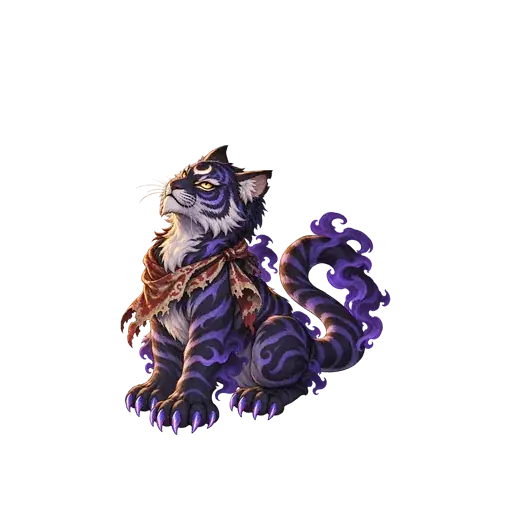
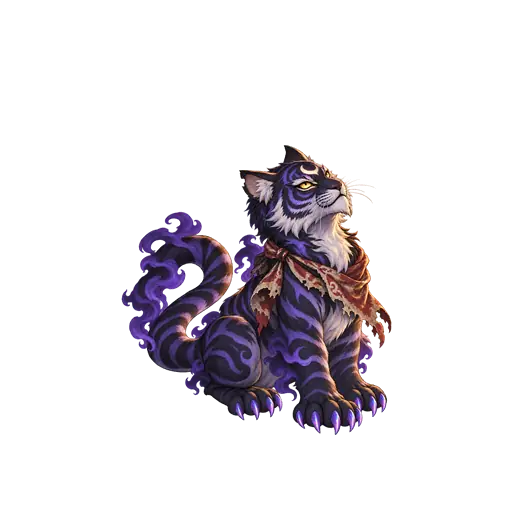
Complete BATCH07: add Hatsadiling Chick, Kinnari, Garuda Fledgling, Guardian Lion and Nine-tail Fox; fill the 13 resent poses; face the Saming Tiger's front poses right
The resent poses reuse each set's original scale, so existing poses do not
move. B05's front poses had been mirrored on import although the art
already faced right.

Claude-Session: https://claude.ai/code/session_01SWtCEn3RuCc2DeC8sT5FWy

Changed region(s): [[0.2188, 0.2812, 0.7812, 0.8438]]

diff --git a/EGGBOUND/game/src/core/data.ts b/EGGBOUND/game/src/core/data.ts
@@ -129,6 +129,17 @@ export const SPECIES: Record<string, SpeciesDef> = {
       { id: 'effigy_curse', name: 'คำสาปหุ่น', desc: 'ทุกตัว ติดเครื่องหมายมืด + ลด DEF 2 เทิร์น', cd: 4, target: 'enemyAll', mult: 0.75, effects: [{ kind: 'mark', elem: 'dark', chance: 1 }, { kind: 'status', status: 'def_down', turns: 2, chance: 0.7 }], anim: 'ult_nightwave', ult: true },
     ],
   },
+  B03: {
+    id: 'B03', art: 'monB03', name: 'หัสดีลิงค์น้อย', nameEn: 'Hatsadiling Chick', elem: 'wind', role: 'Attacker', rarity: 'common',
+    base: { hp: 830, atk: 116, def: 50, spd: 114 },
+    leader: { stat: 'spd', value: 0.10, text: 'SPD ทั้งทีม +10%' },
+    rarePassive: { kind: 'hitStatusAtb', status: 'spd_down', chance: 0.35, value: 20, name: 'ลมงวงหัสดี', desc: 'ตีโดนศัตรูที่ติด SPD ลด 35% ได้เกจเทิร์น +20' },
+    skills: [
+      { id: 'hatsa_trunk', name: 'ฟาดงวง', desc: 'ฟาด 1 ตัว 50% ติดเครื่องหมายลม', cd: 0, target: 'enemy', mult: 1.05, effects: [{ kind: 'mark', elem: 'wind', chance: 0.5 }], anim: 'melee' },
+      { id: 'hatsa_gust', name: 'กระพือปีกพายุ', desc: 'ลมแรงใส่ 1 ตัว 60% ลด SPD 2 เทิร์น', cd: 3, target: 'enemy', mult: 1.5, effects: [{ kind: 'status', status: 'spd_down', turns: 2, chance: 0.6 }], anim: 'shot' },
+      { id: 'hatsa_storm', name: 'พายุหัสดี', desc: 'คลื่นลมกวาดทุกตัว ติดเครื่องหมายลม + ลดเกจ 15', cd: 5, target: 'enemyAll', mult: 1.15, effects: [{ kind: 'mark', elem: 'wind', chance: 1 }, { kind: 'atb', value: -15 }], anim: 'ult_nightwave', ult: true },
+    ],
+  },
   B04: {
     id: 'B04', art: 'monB04', name: 'พรายตะเคียน', nameEn: 'Takhian Dryad', elem: 'earth', role: 'Healer', rarity: 'common',
     base: { hp: 940, atk: 88, def: 62, spd: 103 },
@@ -151,6 +162,17 @@ export const SPECIES: Record<string, SpeciesDef> = {
       { id: 'saming_form', name: 'แปลงร่างสมิง', desc: 'พุ่งทะลุทุกตัว ดูดชีวิต 30% ของดาเมจ', cd: 5, target: 'enemyAll', mult: 1.3, effects: [{ kind: 'drain', value: 0.3, to: 'self' }], anim: 'ult_dash', ult: true },
     ],
   },
+  B06: {
+    id: 'B06', art: 'monB06', name: 'กินรี', nameEn: 'Kinnari', elem: 'wind', role: 'Healer', rarity: 'rare',
+    base: { hp: 960, atk: 92, def: 64, spd: 113 },
+    leader: { stat: 'hp', value: 0.18, text: 'HP ทั้งทีม +18%' },
+    rarePassive: { kind: 'healCleanse', chance: 0.7, name: 'ระบำชำระใจ', desc: 'ทุกครั้งที่ฮีล 70% ล้างสถานะร้าย 1 อย่างของพวกที่ถูกฮีล' },
+    skills: [
+      { id: 'kinnari_feather', name: 'ขนปีกกรีดลม', desc: 'ขนปีกคมใส่ 1 ตัว 50% ติดเครื่องหมายลม', cd: 0, target: 'enemy', mult: 0.95, effects: [{ kind: 'mark', elem: 'wind', chance: 0.5 }], anim: 'shot' },
+      { id: 'kinnari_dance', name: 'ระบำกินรี', desc: 'ฮีลทั้งทีม 15% + เพิ่ม SPD 2 เทิร์น', cd: 3, target: 'allyAll', mult: 0, effects: [{ kind: 'heal', value: 0.15, to: 'allies' }, { kind: 'status', status: 'spd_up', turns: 2, to: 'allies' }], anim: 'heal' },
+      { id: 'kinnari_heaven', name: 'ฟ้อนสวรรค์', desc: 'ฮีลทั้งทีม 28% + ล้างสถานะ + เกจ 15', cd: 5, target: 'allyAll', mult: 0, effects: [{ kind: 'heal', value: 0.28, to: 'allies' }, { kind: 'cleanse', to: 'allies' }, { kind: 'atb', value: 15, to: 'allies' }], anim: 'ult_starlight', ult: true },
+    ],
+  },
   B07: {
     id: 'B07', art: 'monB07', name: 'คชสีห์', nameEn: 'Gajasimha', elem: 'light', role: 'Defender', rarity: 'epic',
     base: { hp: 1260, atk: 104, def: 94, spd: 101 },
@@ -160,6 +182,17 @@ export const SPECIES: Record<string, SpeciesDef> = {
       { id: 'gaja_tusk', name: 'ตะปบงา', desc: 'ตะปบ 1 ตัว 60% ติดเครื่องหมายแสง', cd: 0, target: 'enemy', mult: 1.05, effects: [{ kind: 'mark', elem: 'light', chance: 0.6 }], anim: 'melee' },
       { id: 'gaja_roar', name: 'คำรามคชสีห์', desc: 'ทุกตัว 50% ลด ATK 2 เทิร์น', cd: 3, target: 'enemyAll', mult: 0.55, effects: [{ kind: 'status', status: 'atk_down', turns: 2, chance: 0.5 }], anim: 'volley' },
       { id: 'gaja_divine', name: 'งาเทวะ', desc: 'โล่ทั้งทีม 22% + เพิ่ม DEF 2 เทิร์น', cd: 4, target: 'allyAll', mult: 0, effects: [{ kind: 'shield', value: 0.22, turns: 2, to: 'allies' }, { kind: 'status', status: 'def_up', turns: 2, to: 'allies' }], anim: 'ult_starlight', ult: true },
+    ],
+  },
+  B08: {
+    id: 'B08', art: 'monB08', name: 'ครุฑน้อย', nameEn: 'Garuda Fledgling', elem: 'wind', role: 'Attacker', rarity: 'epic',
+    base: { hp: 960, atk: 140, def: 58, spd: 117 },
+    leader: { stat: 'atk', value: 0.22, text: 'ATK ทั้งทีม +22%' },
+    rarePassive: { kind: 'hitAtbDrain', value: 15, name: 'ปีกพญาครุฑ', desc: 'ทุกการโจมตีลดเกจเทิร์นศัตรูเพิ่มอีก 15' },
+    skills: [
+      { id: 'garuda_talon', name: 'กรงเล็บครุฑ', desc: 'ตะปบ 1 ตัว 60% ติดเครื่องหมายลม', cd: 0, target: 'enemy', mult: 1.15, effects: [{ kind: 'mark', elem: 'wind', chance: 0.6 }], anim: 'melee' },
+      { id: 'garuda_dive', name: 'โฉบล่าเหยื่อ', desc: 'โฉบใส่ 1 ตัวแรง 60% ลด DEF 2 เทิร์น', cd: 3, target: 'enemy', mult: 1.75, effects: [{ kind: 'status', status: 'def_down', turns: 2, chance: 0.6 }], anim: 'melee' },
+      { id: 'garuda_tempest', name: 'พายุปีกครุฑ', desc: 'พุ่งทะลุทุกตัว ติดเครื่องหมายลม + ลดเกจ 25', cd: 5, target: 'enemyAll', mult: 1.4, effects: [{ kind: 'mark', elem: 'wind', chance: 1 }, { kind: 'atb', value: -25 }], anim: 'ult_dash', ult: true },
     ],
   },
   B09: {
@@ -206,6 +239,17 @@ export const SPECIES: Record<string, SpeciesDef> = {
       { id: 'toad_fortune', name: 'โชคลาภ', desc: 'คริขึ้นทั้งทีม 2 เทิร์น + เกจ 20 + ศัตรูเปียก', cd: 4, target: 'allyAll', mult: 0, effects: [{ kind: 'status', status: 'crit_up', turns: 2, to: 'allies' }, { kind: 'atb', value: 20, to: 'allies' }, { kind: 'mark', elem: 'water', chance: 1, to: 'enemies' }], anim: 'ult_rain', ult: true },
     ],
   },
+  C03: {
+    id: 'C03', art: 'monC03', name: 'สิงโตผู้พิทักษ์', nameEn: 'Guardian Lion', elem: 'fire', role: 'Defender', rarity: 'common',
+    base: { hp: 1080, atk: 88, def: 82, spd: 98 },
+    leader: { stat: 'def', value: 0.15, text: 'DEF ทั้งทีม +15%' },
+    rarePassive: { kind: 'counter', chance: 0.25, value: 0.7, name: 'สิงห์เฝ้าประตู', desc: 'ถูกโจมตี 25% สวนกลับด้วยสกิล 1 (พลัง 70%)' },
+    skills: [
+      { id: 'lion_bite', name: 'งับเพลิง', desc: 'งับ 1 ตัว 50% ติดเครื่องหมายไฟ', cd: 0, target: 'enemy', mult: 1.0, effects: [{ kind: 'mark', elem: 'fire', chance: 0.5 }], anim: 'melee' },
+      { id: 'lion_ball', name: 'ลูกแก้วพิทักษ์', desc: 'โล่ทั้งทีม 15% ของ HP สูงสุด 2 เทิร์น', cd: 3, target: 'allyAll', mult: 0, effects: [{ kind: 'shield', value: 0.15, turns: 2, to: 'allies' }], anim: 'shield' },
+      { id: 'lion_roar', name: 'คำรามสิงห์เพลิง', desc: 'ทุกตัว 60% ลด ATK 2 เทิร์น + เพิ่ม DEF ทั้งทีม', cd: 4, target: 'enemyAll', mult: 0.8, effects: [{ kind: 'status', status: 'atk_down', turns: 2, chance: 0.6 }, { kind: 'status', status: 'def_up', turns: 2, to: 'allies' }], anim: 'ult_quake', ult: true },
+    ],
+  },
   C04: {
     id: 'C04', art: 'monC04', name: 'กระต่ายหยก', nameEn: 'Jade Rabbit', elem: 'light', role: 'Healer', rarity: 'common',
     base: { hp: 900, atk: 90, def: 60, spd: 109 },
@@ -215,6 +259,17 @@ export const SPECIES: Record<string, SpeciesDef> = {
       { id: 'rabbit_pestle', name: 'ตำยา', desc: 'ตำ 1 ตัว 40% ติดเครื่องหมายแสง', cd: 0, target: 'enemy', mult: 0.95, effects: [{ kind: 'mark', elem: 'light', chance: 0.4 }], anim: 'melee' },
       { id: 'rabbit_elixir', name: 'ยาอมฤต', desc: 'ฮีลทั้งทีม 18%', cd: 3, target: 'allyAll', mult: 0, effects: [{ kind: 'heal', value: 0.18, to: 'allies' }], anim: 'heal' },
       { id: 'rabbit_moon', name: 'จันทร์เพ็ญ', desc: 'ฮีลทั้งทีม 25% + ฟื้นฟูต่อเนื่อง 2 เทิร์น', cd: 5, target: 'allyAll', mult: 0, effects: [{ kind: 'heal', value: 0.25, to: 'allies' }, { kind: 'status', status: 'regen', turns: 2, to: 'allies' }], anim: 'ult_starlight', ult: true },
+    ],
+  },
+  C05: {
+    id: 'C05', art: 'monC05', name: 'จิ้งจอกเก้าหาง', nameEn: 'Nine-tail Fox', elem: 'fire', role: 'Controller', rarity: 'rare',
+    base: { hp: 880, atk: 110, def: 56, spd: 116 },
+    leader: { stat: 'res', value: 0.18, text: 'ต้านทานสถานะ ทั้งทีม +18%' },
+    rarePassive: { kind: 'curseOnHit', status: 'blind', chance: 0.3, name: 'ภาพลวงจิ้งจอก', desc: 'ถูกโจมตี 30% ผู้โจมตีติดตาบอด 2 เทิร์น' },
+    skills: [
+      { id: 'kitsune_flame', name: 'ไฟจิ้งจอก', desc: 'ไฟผีใส่ 1 ตัว 40% เผาไหม้ 2 เทิร์น', cd: 0, target: 'enemy', mult: 1.0, effects: [{ kind: 'status', status: 'burn', turns: 2, chance: 0.4 }], anim: 'shot' },
+      { id: 'kitsune_charm', name: 'เสน่ห์เก้าหาง', desc: 'ใส่ 1 ตัว 60% หลับ 2 เทิร์น', cd: 3, target: 'enemy', mult: 1.2, effects: [{ kind: 'status', status: 'sleep', turns: 2, chance: 0.6 }], anim: 'shot' },
+      { id: 'kitsune_ninefire', name: 'เพลิงเก้าหาง', desc: 'คลื่นไฟใส่ทุกตัว ติดเครื่องหมายไฟ 60% เผาไหม้ 2 เทิร์น', cd: 4, target: 'enemyAll', mult: 0.9, effects: [{ kind: 'mark', elem: 'fire', chance: 1 }, { kind: 'status', status: 'burn', turns: 2, chance: 0.6 }], anim: 'ult_nightwave', ult: true },
     ],
   },
   BOSS_ROOT: {

diff --git a/EGGBOUND/game/STATUS_P1.md b/EGGBOUND/game/STATUS_P1.md
@@ -80,7 +80,7 @@ Tested: `npm test` (determinism + balance + tests/eggs.ts), `npm run typecheck`,
 - BOSS_ROOT ใช้ภาพ A09 (scale 1.3) แทนโกเลมขยาย
 - `import_art.py` ใหม่: ยึดเท้าจริงของแต่ละภาพ, `--mirror`, ข้ามไฟล์เสีย, webp alpha_quality 70 (เล็กลง ~30%)
 - `spr()` มีท่าสำรองเมื่อภาพท่าใดหาย · ทดสอบ: ตั้งค่า → "รับมอนทุกตัว", ปุ่มฟักมอนระดับใช้ตัวจริงตามระดับ
-- ไฟล์เสีย (truncated) ต้องส่งใหม่: A07 front_hit · A08 back_cast · A09 back_attack, back_cast · B01 front_attack · B02 front_cast · B04 back_attack · B05 front_idle, front_burst · C01 front_attack, eggC01 · C02 front_burst · C04 front_idle
+- ~~ไฟล์เสีย (truncated) ต้องส่งใหม่~~ (ได้ครบแล้ว 2026-10-13): A07 front_hit · A08 back_cast · A09 back_attack, back_cast · B01 front_attack · B02 front_cast · B04 back_attack · B05 front_idle, front_burst · C01 front_attack, eggC01 · C02 front_burst · C04 front_idle
 - B05 ท่าหน้าหันซ้าย → กลับด้านตอนนำเข้า (`--mirror front_attack,front_cast,front_hit,master`)
 
 ## ดาวแบบ SW + ฉากปลุกพลัง (2026-10-12)
@@ -200,3 +200,11 @@ Tested: `npm test` (determinism + balance + tests/eggs.ts), `npm run typecheck`,
 - ไข่ที่บ่มไปแล้วจ่ายตามเวลาที่เหลือ (ปัดขึ้น อย่างน้อย 1) · หน้าฟักไข่บอกจำนวนครั้งที่เร่งวันนี้และราคาครั้งถัดไป
 - ข้อจำกัด: เกมออฟไลน์ ผู้เล่นเปลี่ยนเวลาเครื่องเพื่อรีเซ็ตได้ — ตรวจฝั่งเซิร์ฟเวอร์ใน P2
 - ทดสอบ: `tests/eggs.ts` (บันได 10→100, ไข่รุ้งเพดาน 300, รีเซ็ตวันถัดไป, จ่ายตามเวลาที่เหลือ) + กดเร่งจริง 3 ครั้งบนจอคอม/มือถือ ได้ 10 → 12 → 14
+
+## BATCH07 ครบ 18/18 ตัว (2026-10-13)
+- มอนใหม่ใน `SPECIES`: B03 หัสดีลิงค์น้อย (ลม จู่โจม ธรรมดา · ร่างหายาก "ลมงวงหัสดี" ตีศัตรูที่ SPD ลด ได้เกจ) · B06 กินรี (ลม ฟื้นฟู หายาก · "ระบำชำระใจ" ฮีลแล้วล้างสถานะ 70%) · B08 ครุฑน้อย (ลม จู่โจม มหากาพย์ · "ปีกพญาครุฑ" ทุกการตีลดเกจ 15) · C03 สิงโตผู้พิทักษ์ (ไฟ ป้องกัน ธรรมดา · "สิงห์เฝ้าประตู" สวนกลับ 25%) · C05 จิ้งจอกเก้าหาง (ไฟ ควบคุม หายาก · "ภาพลวงจิ้งจอก" ถูกตี 30% ผู้ตีตาบอด) — ค่าพลังเริ่มต้นสำหรับทดสอบ
+- ภาพ: ชุดเก่าในแชท (1254px) + ชุดที่ส่งมาใหม่ (1024px) รวมกันครบ 12/12 ทุกตัว · ความสูง B03 270 · B06 310 · B08 360 · C03 300 · C05 320
+- ไฟล์เสียที่ส่งมาใหม่ใส่ครบ 13 ภาพ (A07 front_hit · A08 back_cast · A09 back_attack/back_cast · B01 front_attack · B02 front_cast · B04 back_attack · B05 front_idle/front_burst · C01 front_attack + ไข่ · C02 front_burst · C04 front_idle) — ใช้สเกลเดิมของแต่ละชุด ท่าเดิมไม่ขยับ
+- แก้: เสือสมิง B05 ท่าหน้าเคยถูกกลับด้านตอนนำเข้าจนหันซ้าย → นำเข้าใหม่ไม่กลับด้าน หันขวาเหมือนตัวอื่นแล้ว
+- ไข่ปริศนาฟักได้ตัวใหม่ทั้ง 5 ตามระดับความหายากอัตโนมัติ · build 14.0MB (จำกัด 16MB)
+- ทดสอบ: test ผ่านทั้งหมด (พาสซีฟร่างหายากใหม่ไม่ crash ทุกด่าน) · สู้ AUTO ด่าน 1-3 ทีมตัวใหม่ 3 รอบจบปกติ ไม่มี error · เวทีโชว์ตัวใหม่ (รวมร่างหายาก) แสดงถูกต้อง
